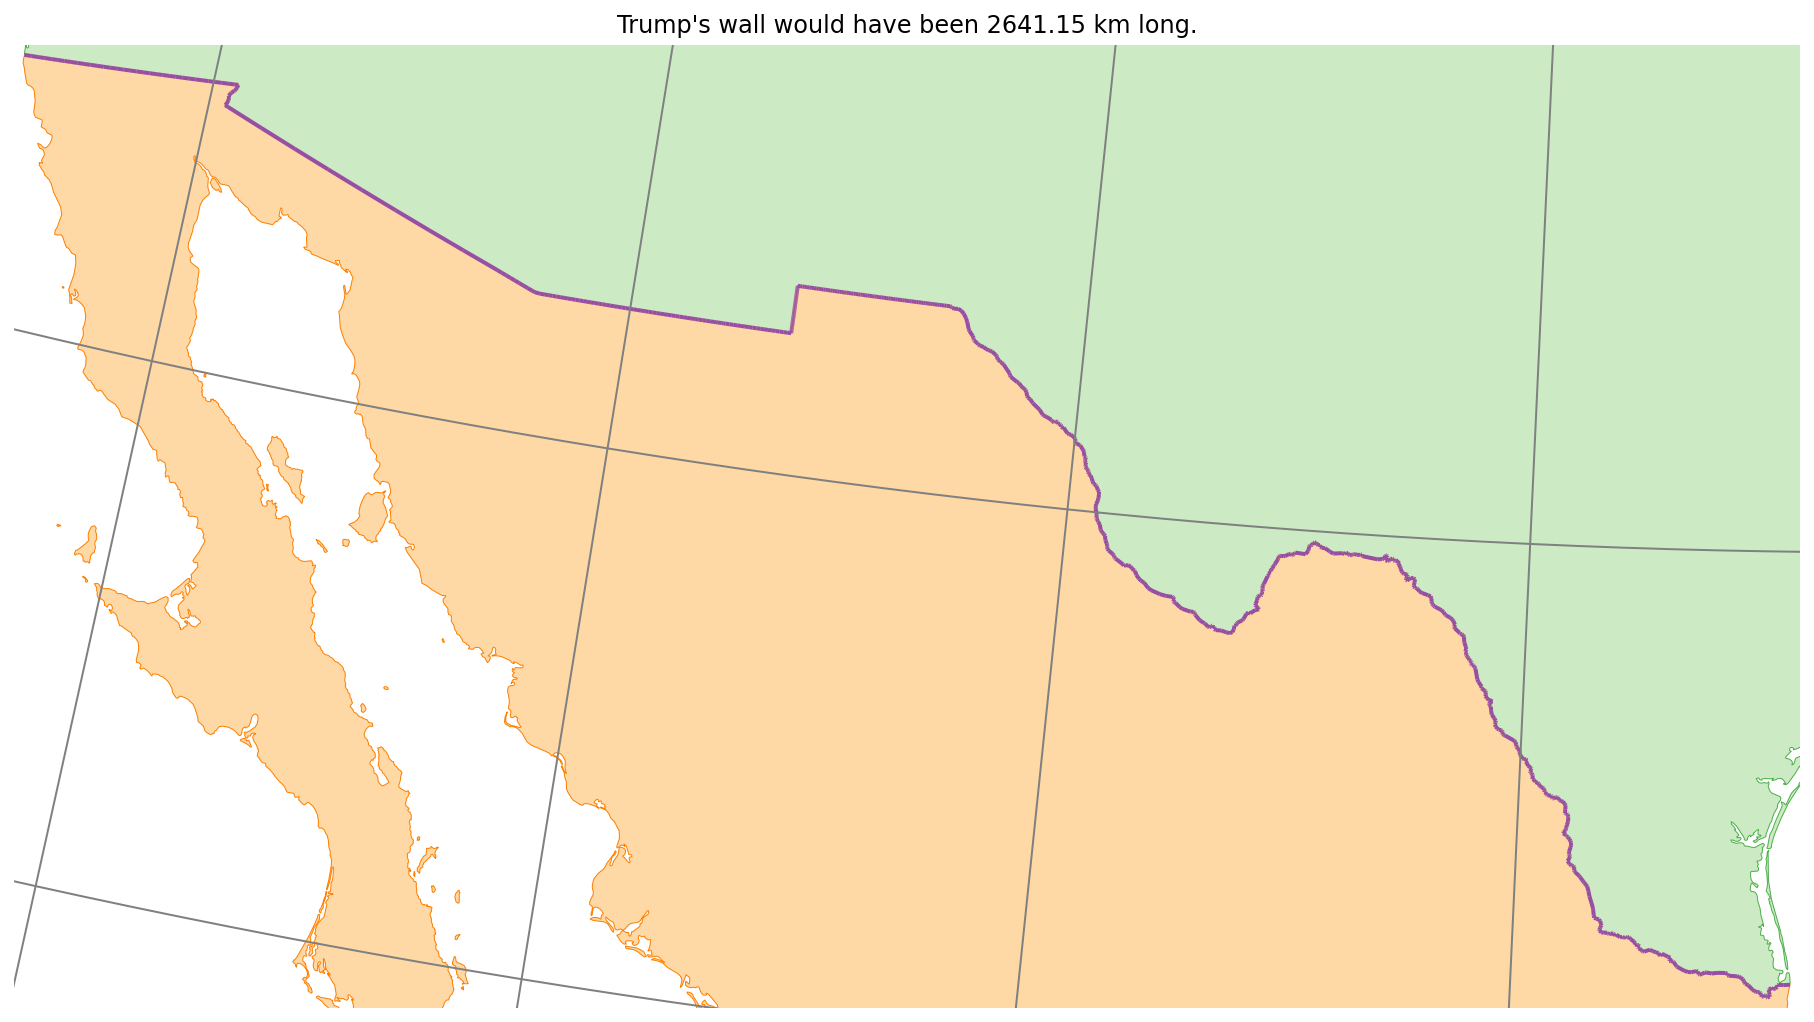
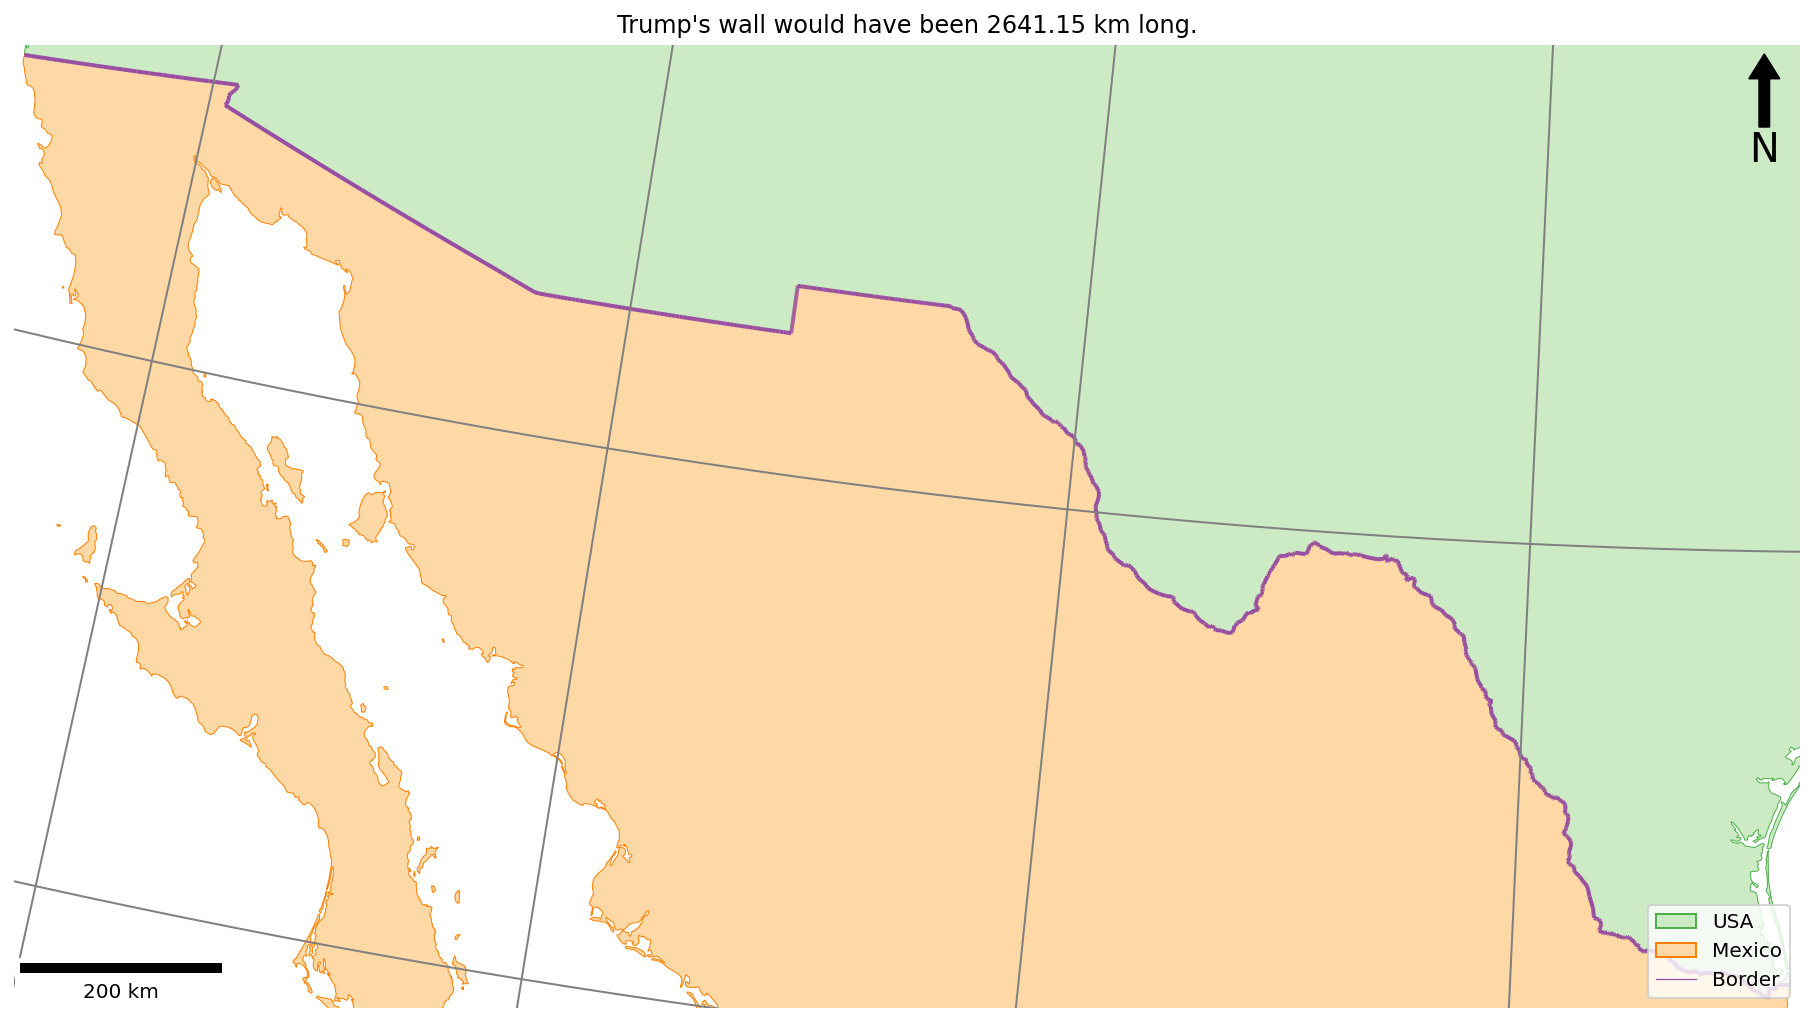
message describing changes

Changed region(s): [[0.8953, 0.8796, 0.9879, 1.0], [0.0, 0.9403, 0.1235, 0.9706], [0.957, 0.0607, 0.9879, 0.1517]]

diff --git a/week2/week2.2.py b/week2/week2.2.py
@@ -4,6 +4,11 @@ from matplotlib.pyplot import subplots, savefig, title
 
 from pyproj import Geod
 
+from matplotlib_scalebar.scalebar import ScaleBar
+
+from matplotlib.lines import Line2D
+from matplotlib.patches import Patch 
+
 # load the shapefile of countries - this gives a table of 12 columns and 246 rows (one per country)
 world = read_file("E:/Manchester/UGIS/data/natural-earth/ne_10m_admin_0_countries.shp")
 
@@ -52,7 +57,6 @@ GeoSeries(border).plot(
   ax = my_ax
 	)
 
-
 # set which ellipsoid you would like to use
 g = Geod(ellps='WGS84')
 
@@ -76,8 +80,6 @@ for segment in border.geoms:
     
     # Add the distance to our cumulative total
     cumulative_length += distance
-
-
 
 # set title
 title(f"Trump's wall would have been {cumulative_length / 1000:.2f} km long.")
@@ -116,6 +118,22 @@ graticule.to_crs(lambert_conic).plot(
     color='grey',
     linewidth = 1,
     )
+
+# add north arrow
+x, y, arrow_length = 0.98, 0.99, 0.1
+my_ax.annotate('N', xy=(x, y), xytext=(x, y-arrow_length),
+	arrowprops=dict(facecolor='black', width=5, headwidth=15),
+	ha='center', va='center', fontsize=20, xycoords=my_ax.transAxes)
+
+# add scalebar
+my_ax.add_artist(ScaleBar(dx=1, units="m", location="lower left", length_fraction=0.25))
+
+# add legend
+my_ax.legend(handles=[
+        Patch(facecolor='#ccebc5', edgecolor='#4daf4a', label='USA'),
+        Patch(facecolor='#fed9a6', edgecolor='#ff7f00', label='Mexico'),
+        Line2D([0], [0], color='#984ea3',  lw=0.6, label='Border')
+    ],loc='lower right')
 
 # save the result
 savefig('out/2.png', bbox_inches='tight')
